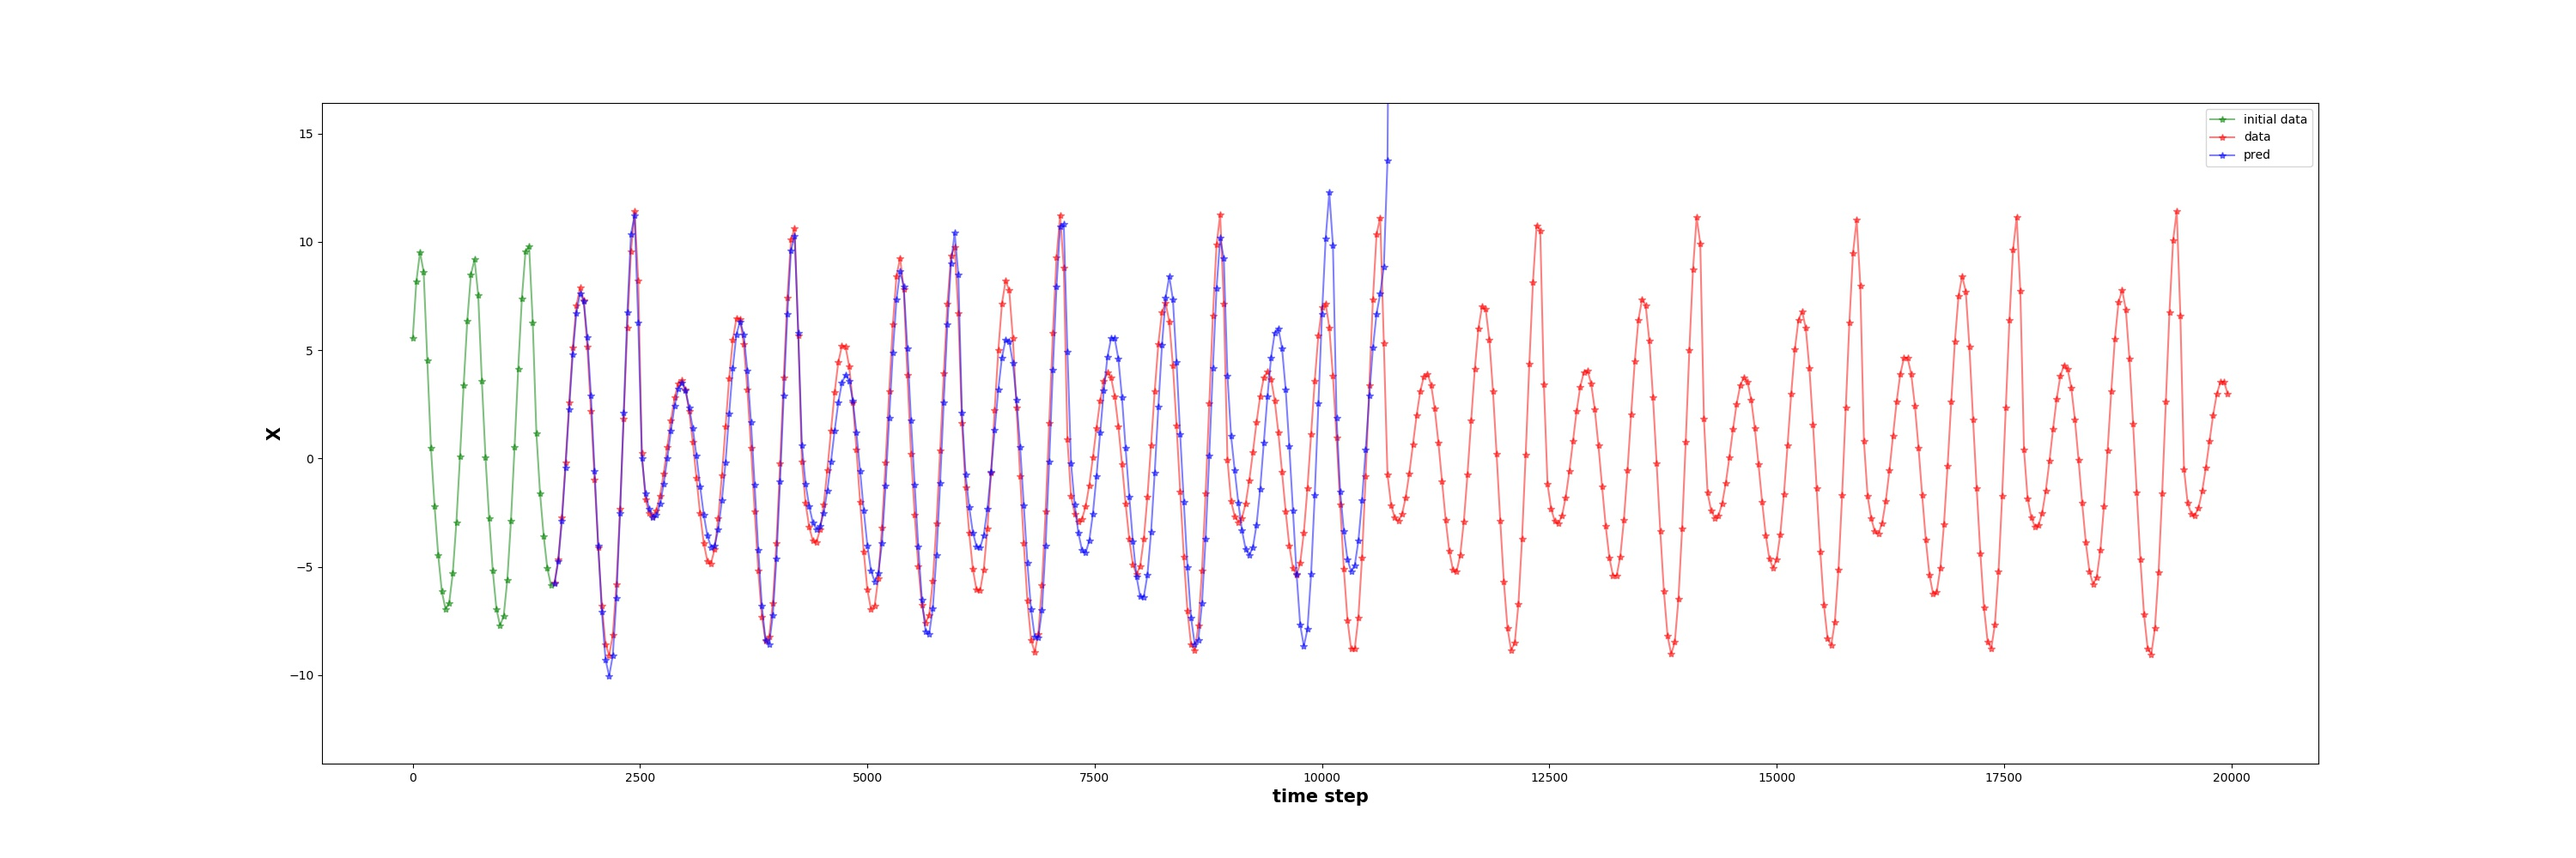
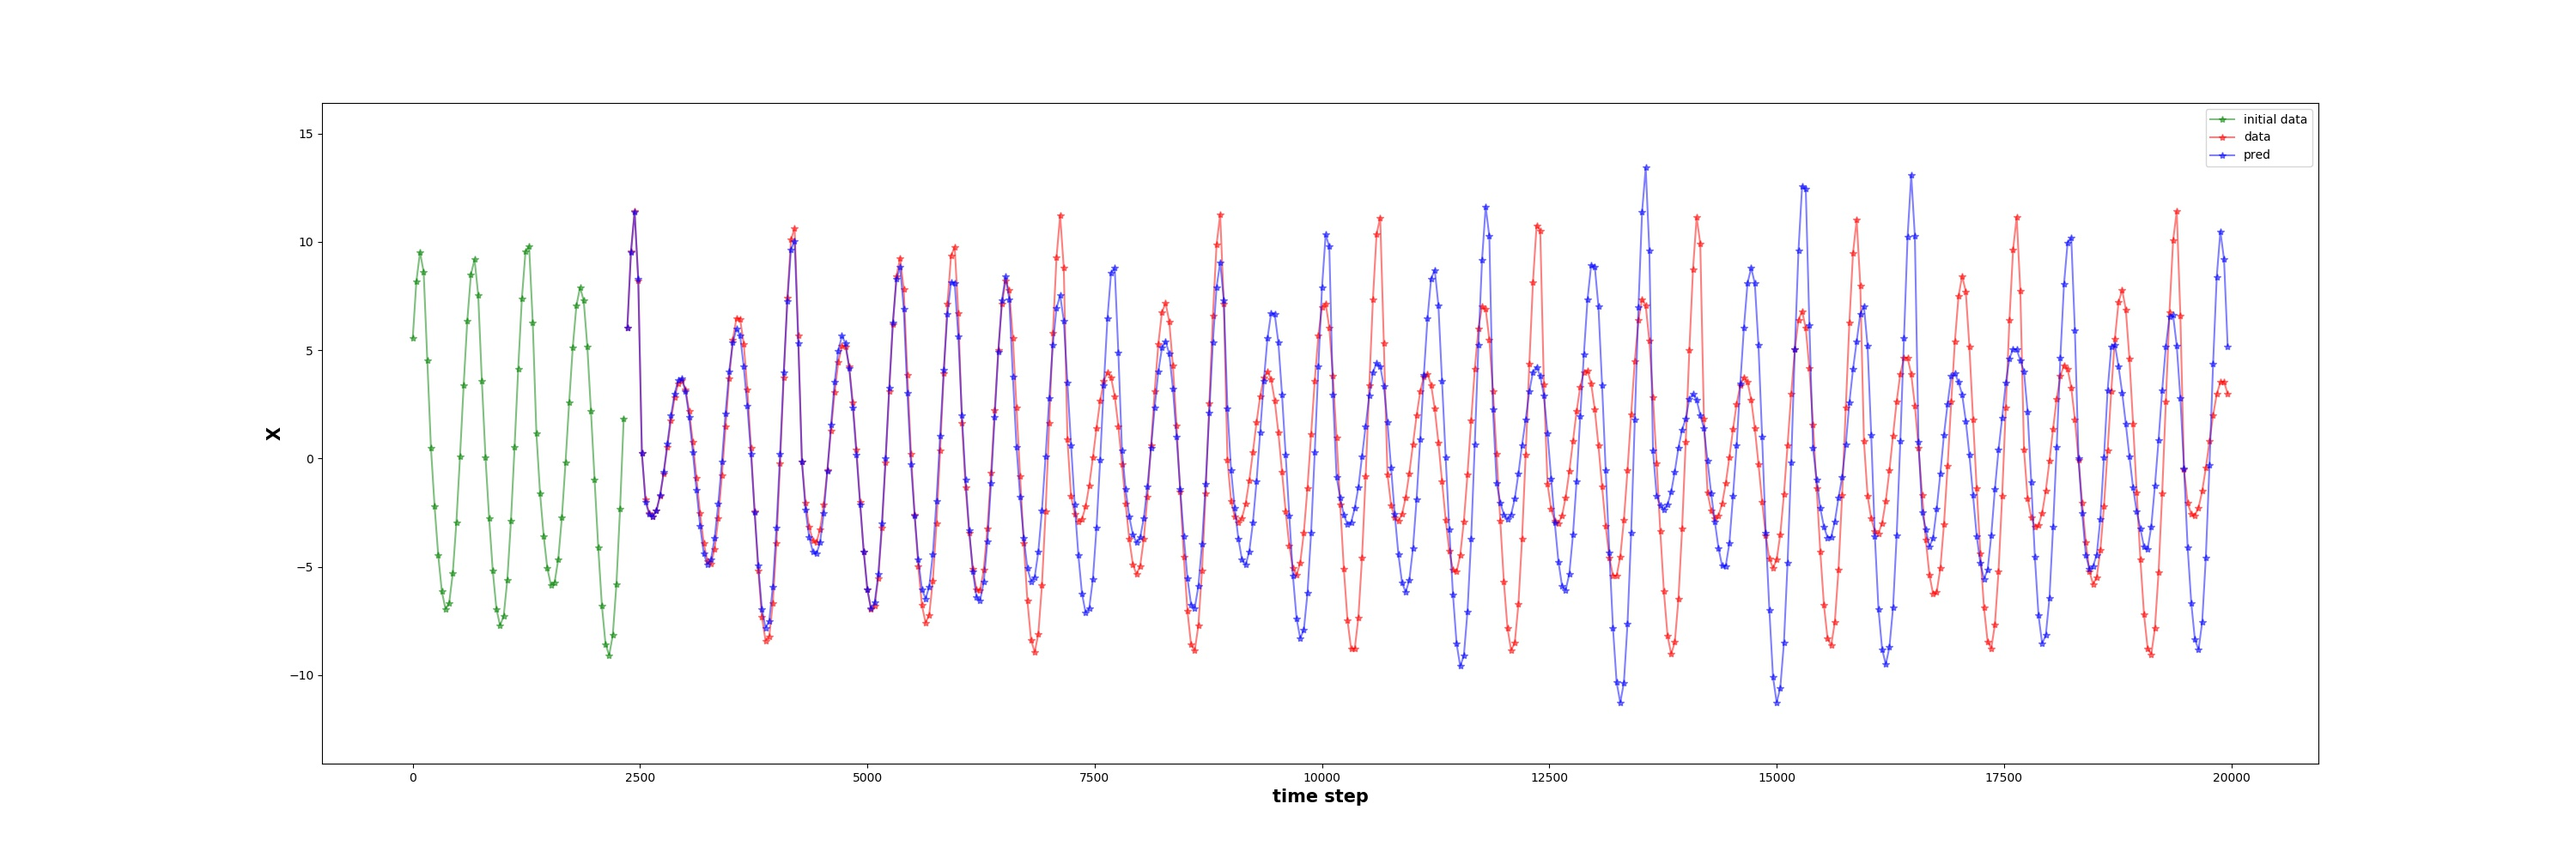
best MLP model with BN; MSE=0.0011

diff --git a/models.py b/models.py
@@ -15,6 +15,7 @@ class MLP(nn.Module):
         self.dense1 = nn.Sequential(
             nn.Dropout(drop_rate),
             nn.Linear(in_size, fil_num),
+            nn.BatchNorm1d(fil_num),
         )
         self.dense2 = nn.Sequential(
             nn.LeakyReLU(),
@@ -28,8 +29,66 @@ class MLP(nn.Module):
         return x
 
 
+class MLP_exo(nn.Module):
+    def __init__(self, config):
+        super(MLP_exo, self).__init__()
+        in_size, fil_num, drop_rate, out_size = config['in_size'], config['fil_num'], config['drop_rate'], config['out_size']
+        self.fil_num = fil_num
+        self.out_size = out_size
+        self.in_size = in_size
+        self.dense1 = nn.Sequential(
+            nn.Dropout(drop_rate),
+            nn.Linear(in_size*3, fil_num),
+            nn.BatchNorm1d(fil_num),
+        )
+        self.dense2 = nn.Sequential(
+            nn.LeakyReLU(),
+            nn.Dropout(drop_rate),
+            nn.Linear(fil_num, out_size),
+        )
+
+    def forward(self, x_i, y_i, z_i):
+        x = torch.cat((x_i, y_i, z_i), dim=1)
+        x = self.dense1(x)
+        x = self.dense2(x)
+        return x
+
+
+class LSTM(nn.Module):
+    def __init__(self, config):
+        super(LSTM, self).__init__()
+        h_size = config['hidden_size']
+        layer = config['stack_layer']
+        self.lstm = nn.LSTM(3, h_size, layer, batch_first=True)
+        self.dense = nn.Linear(h_size, 3)
+
+    def forward(self, x_i, y_i, z_i):
+        input = torch.stack((x_i, y_i, z_i), dim=2)
+        x, _ = self.lstm(input)
+        x = x[:, -1, :]
+        x = self.dense(x)
+        return x
+
+
+
 if __name__ == "__main__":
     config = read_json('config.json')["MLP"]
     model = MLP(config)
     print(model)
+
+    # config = read_json('config.json')["LSTM"]
+    # model = LSTM(config)
+    # X_i = torch.rand((16, 39))
+    # Y_i = torch.rand((16, 39))
+    # Z_i = torch.rand((16, 39))
+    # out = model(X_i, Y_i, Z_i)
+    # print(len(out), out.shape)
+
+    config = read_json('config.json')["MLP"]
+    model = MLP_exo(config)
+    X_i = torch.rand((16, 59))
+    Y_i = torch.rand((16, 59))
+    Z_i = torch.rand((16, 59))
+    out = model(X_i, Y_i, Z_i)
+    print(out.shape)
 

diff --git a/model_wrapper.py b/model_wrapper.py
@@ -1,7 +1,7 @@
 from dataloader import Rossler, dataset
 from torch.utils.data import DataLoader
 from visual import show_window, show_a_test_window, show_long_window
-from models import MLP
+from models import MLP, MLP_exo
 import torch
 import torch.nn as nn
 import os
@@ -145,12 +145,9 @@ class ModelDev:
                     nparray = np.array(X_pred[-self.config['data']['w_size']+1:])
                     nparray = np.expand_dims(nparray, axis=0)
                     torchTensor = torch.FloatTensor(nparray)
-                    pred = self.model(torchTensor)
-                    X_pred.append(pred.data.squeeze().numpy().tolist())
-            show_long_window(X_I, X_pred, self.config['data']['stride'], self.config['data']['w_size'], start_idx)
-
-
-
+                    pred = self.model(torchTensor).data.squeeze().numpy().tolist()
+                    X_pred.append(pred)
+            show_long_window(X_I, X_pred, self.config['data']['stride'], self.config['data']['w_size'], start_idx, self.config['train']['model_name'])
 
 
     def load_weights(self):

diff --git a/visual.py b/visual.py
@@ -3,6 +3,7 @@ matplotlib.use('Agg')
 import matplotlib.pyplot as plt
 from mpl_toolkits.mplot3d import Axes3D
 import numpy as np
+import os
 from RosslerSolver import simulator
 
 def trajectory(X, Y, Z):
@@ -106,7 +107,7 @@ def show_a_test_window(data_i, data_o, pred_o, idx, stride):
     fig.clf()
     plt.close()
 
-def show_long_window(data, pred, stride, w_size, start_idx):
+def show_long_window(data, pred, stride, w_size, start_idx, model_name):
     mi, ma = np.min(data), np.max(data)
     fig = plt.figure(figsize=(30,10))
     ax = fig.add_subplot(111)
@@ -118,7 +119,9 @@ def show_long_window(data, pred, stride, w_size, start_idx):
     ax.set_ylabel('X', fontsize=15, fontweight='bold')
     ax.set_ylim((mi-5, ma+5))
     ax.legend()
-    fig.savefig('plots/long_test_window_{}.jpg'.format(start_idx))
+    if not os.path.exists('plots/{}/'.format(model_name)):
+        os.mkdir('plots/{}/'.format(model_name))
+    fig.savefig('plots/{}/long_test_window_{}.jpg'.format(model_name, start_idx))
     fig.clf()
     plt.close()
 
